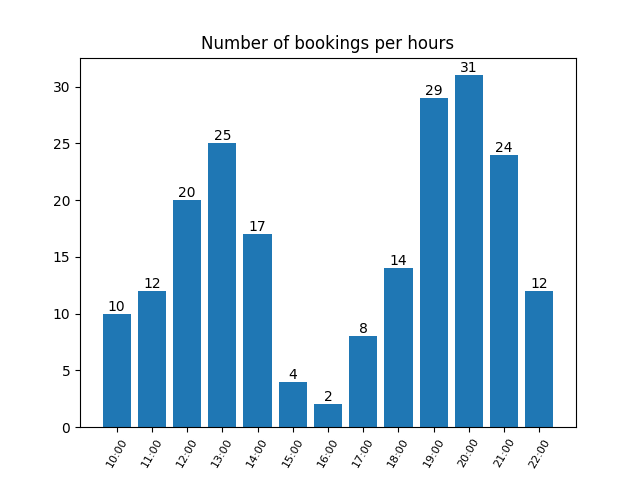
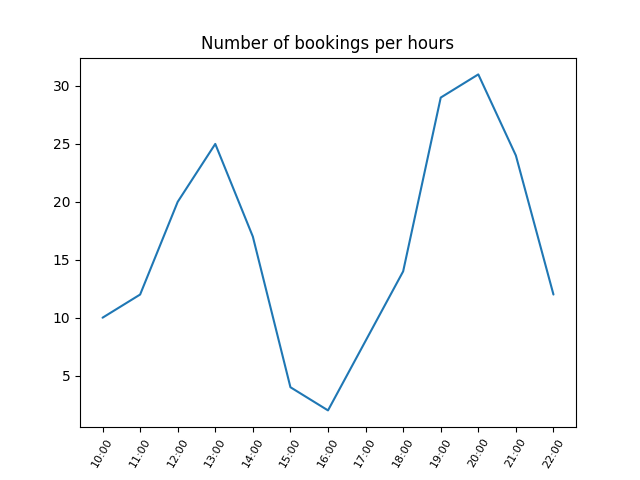
added plot char

diff --git a/commands/generate_stats.py b/commands/generate_stats.py
@@ -67,11 +67,7 @@ names = list(data.keys())
 values = list(data.values())
 
 fig2, ax2 = plt.subplots()
-rects = ax2.bar(names, values)
-for rect in rects:
-    height = rect.get_height()
-    ax2.text(rect.get_x() + rect.get_width()/2., height, '%d' % int(height), ha='center', va='bottom')
-
+rects = ax2.plot(names, values)
 ax2.set_xticklabels(names, rotation=60, fontsize=8)
 
 plt.title('Number of bookings per hours')
